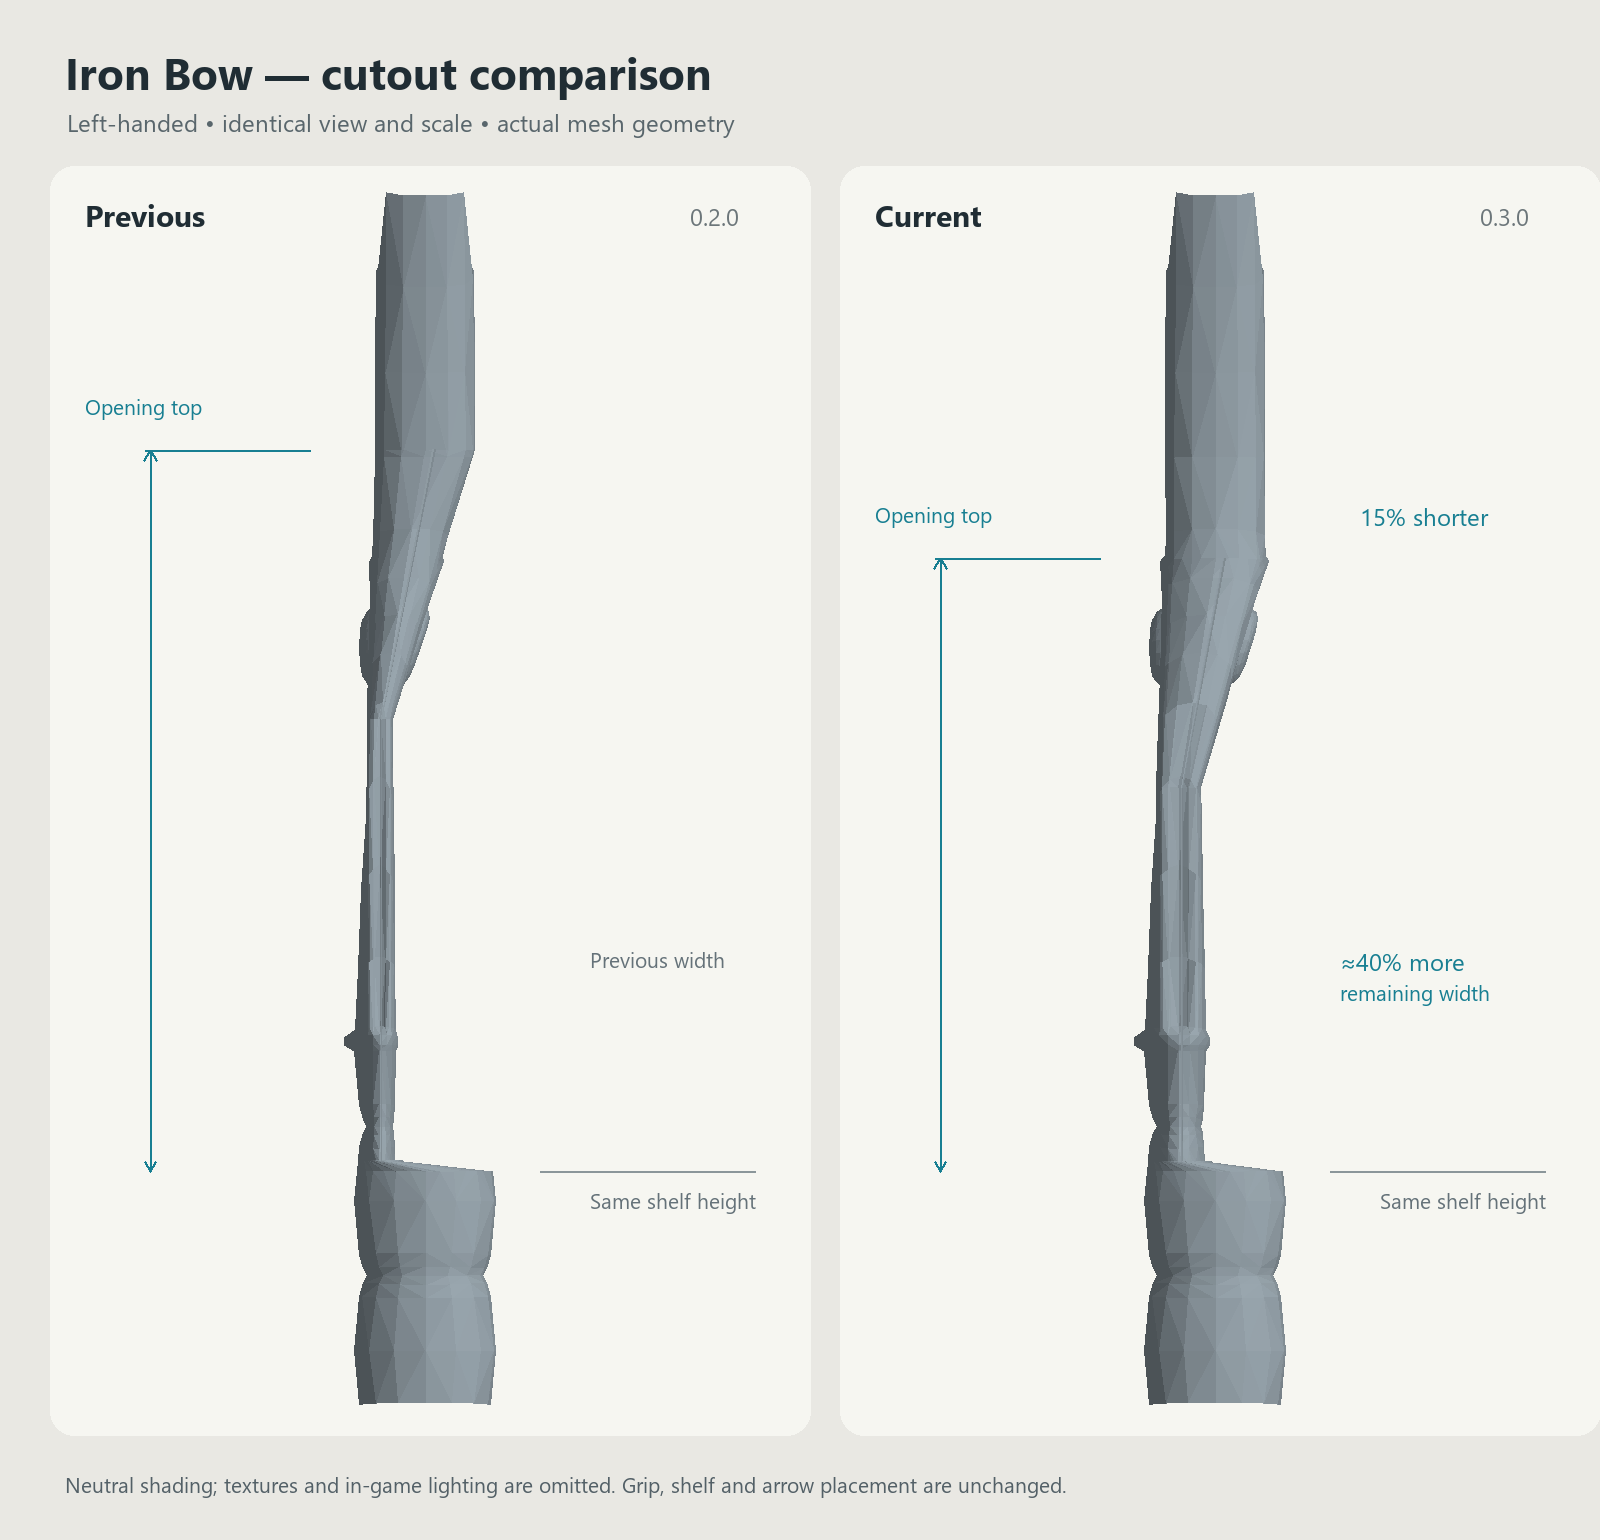
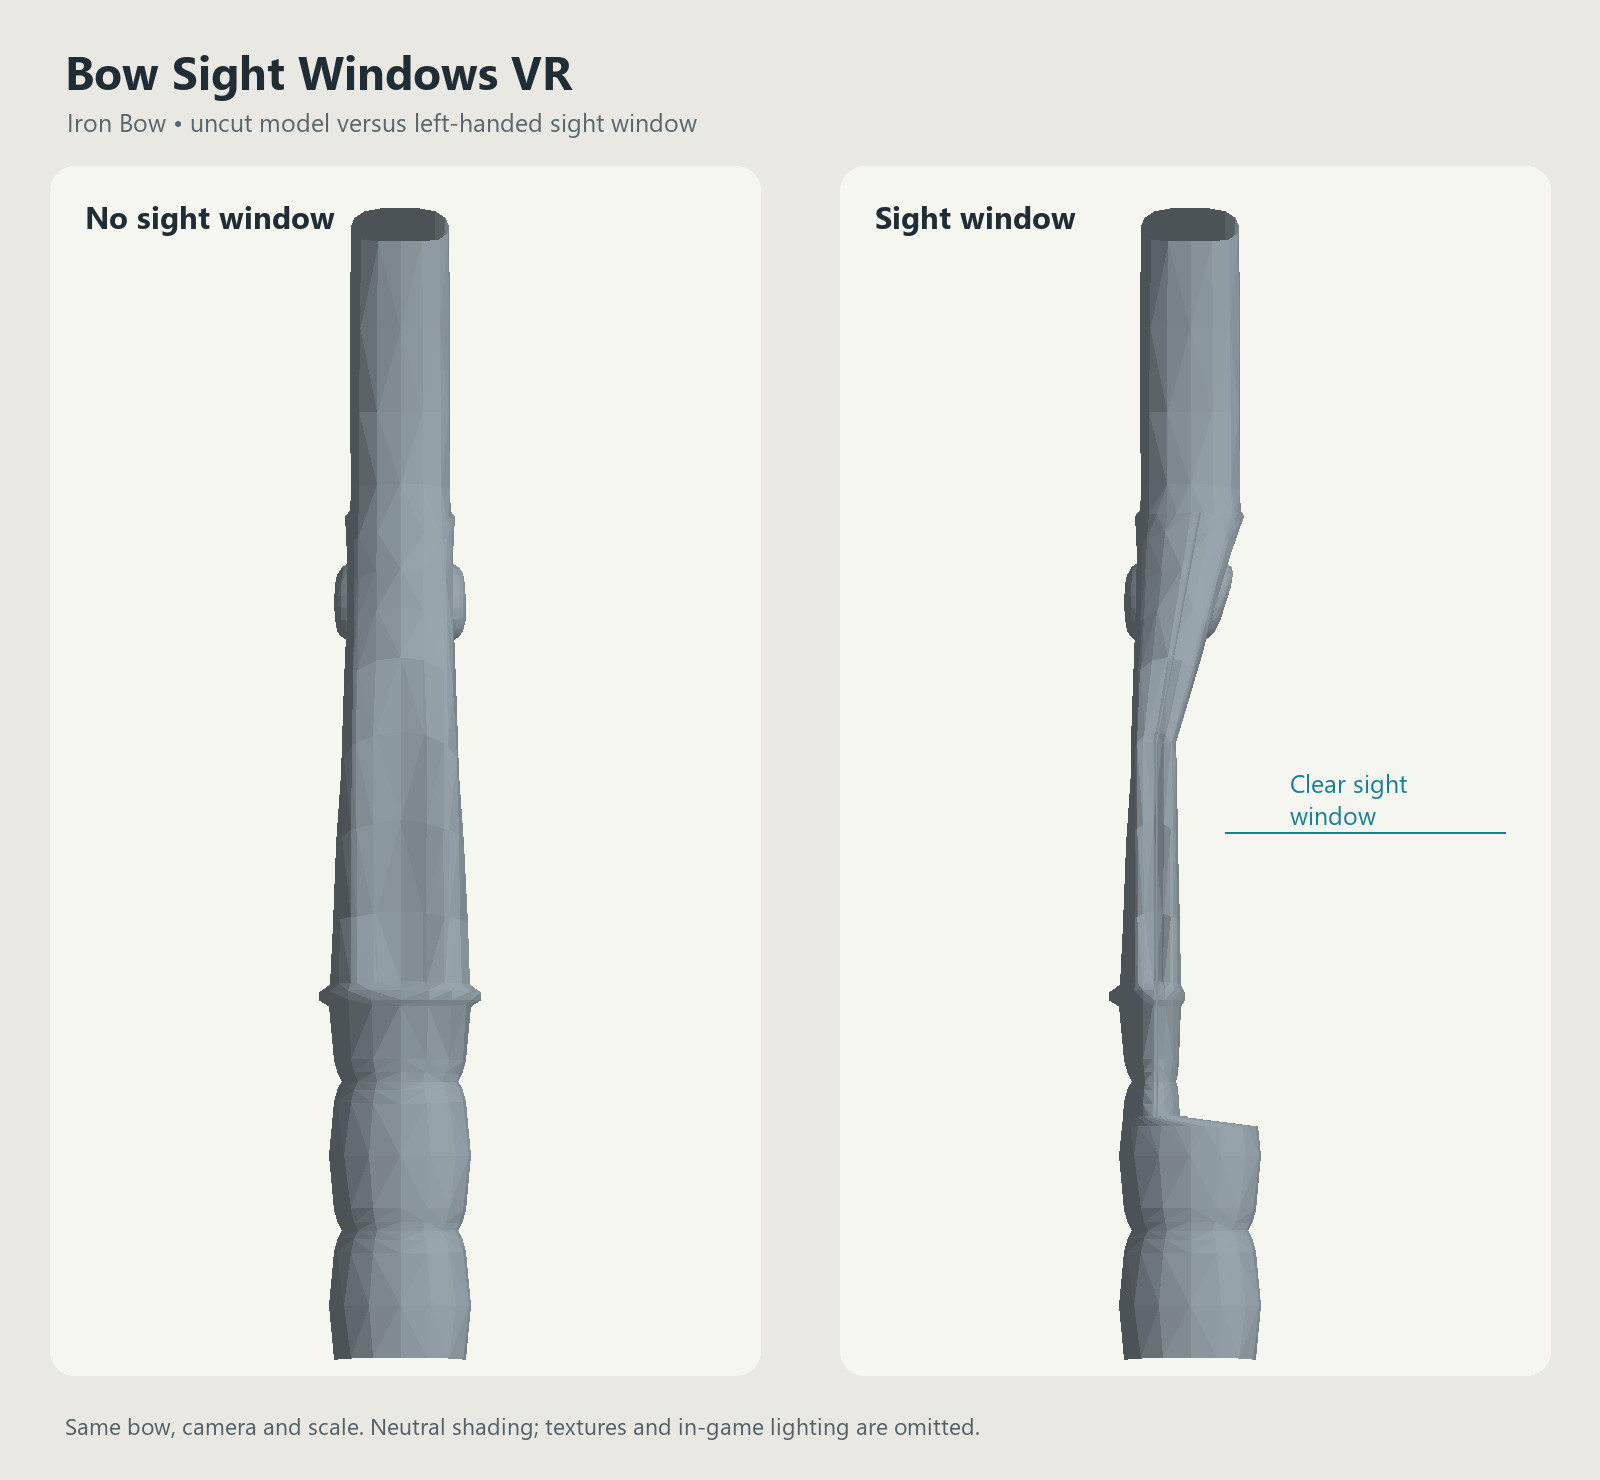
Release 1.0 with uncut versus sight-window showcase

diff --git a/tools/build.py b/tools/build.py
@@ -5,16 +5,14 @@ from nif_mesh import Mesh
 from window import apply_window,SHELF,TOP
 
 ROOT=Path(__file__).resolve().parents[1]
-def revised_depth(points,hand,path):
+def cut_depth(points,hand,path):
  sign=1 if hand=='left' else -1
  side=[sign*q[2] for q in points if q[0]>=-6 and 4.22<=q[1]<=14]
  maximum=max(side,default=1.5);minimum=min(side,default=-1.5)
- previous=.76 if path=='weapons/wooden/woodenbow.nif' else max(.76,min(.94,1-.7/(maximum+1.3)))
+ base_depth=.76 if path=='weapons/wooden/woodenbow.nif' else max(.76,min(.94,1-.7/(maximum+1.3)))
  coefficient=max(maximum+1.3,0)-max(minimum+1.3,0)
- old_width=maximum-minimum-previous*coefficient
- depth=max(0,previous-.4*old_width/coefficient) if coefficient>1e-9 else previous
- width=maximum-minimum-depth*coefficient
- if old_width>1e-9:assert abs(width/old_width-1.4)<1e-9
+ base_width=maximum-minimum-base_depth*coefficient
+ depth=max(0,base_depth-.4*base_width/coefficient) if coefficient>1e-9 else base_depth
  return depth
 
 def build(source_dir,output_dir):
@@ -33,23 +31,23 @@ def build(source_dir,output_dir):
   for hand in ('left','right'):
    mesh=Mesh(data);parts=[]
    for d in mesh.parts:
-    depth=revised_depth(d['part'].root_positions,hand,row['path'])
+    depth=cut_depth(d['part'].root_positions,hand,row['path'])
     effect='boundweapons' in row['path'] and mesh.objects[d['shape']].get('name') in ('FlamesMesh01:0','Refraction:0')
     parts.append(apply_window(d,hand,depth,influence_limit=.1 if effect else .01))
    result,changed=mesh.encode();digest=hashlib.sha256(result).hexdigest()
-   if digest!=row['referenceOutputs'][hand]:raise ValueError(f'Generated mesh differs from verified 0.3.0 reference: {hand}/{row["path"]}')
+   if digest!=row['referenceOutputs'][hand]:raise ValueError(f'Generated mesh differs from verified 1.0 reference: {hand}/{row["path"]}')
    target=package/hand/'meshes'/row['path'];target.parent.mkdir(parents=True,exist_ok=True);target.write_bytes(result)
    reports.append(dict(path=row['path'],hand=hand,sha256=digest,changedBlocks=changed,parts=parts))
  for name in ('ModuleConfig.xml','info.xml'):
   target=package/'fomod'/name;target.parent.mkdir(exist_ok=True);shutil.copyfile(ROOT/'fomod'/name,target)
  shutil.copyfile(ROOT/'docs/local-mod-installation.txt',package/'README.txt')
- archive=output_dir/'BowSightWindows-VanillaDLC-MGO-0.3.0-FOMOD.zip'
+ archive=output_dir/'BowSightWindows-VanillaDLC-MGO-1.0.0-FOMOD.zip'
  with zipfile.ZipFile(archive,'w',zipfile.ZIP_DEFLATED) as z:
   for p in sorted(package.rglob('*')):
    if p.is_file():
     info=zipfile.ZipInfo(p.relative_to(package).as_posix(),(2026,10,26,0,0,0));info.compress_type=zipfile.ZIP_DEFLATED;z.writestr(info,p.read_bytes())
  with zipfile.ZipFile(archive) as z:assert z.testzip() is None and len(z.namelist())==71
- report=dict(version='0.3.0',meshes=len(reports),shelfY=SHELF,topY=TOP,windowHeightScale=.85,remainingReferenceWidthScale=1.4,archiveSHA256=hashlib.sha256(archive.read_bytes()).hexdigest(),outputs=reports)
+ report=dict(version='1.0.0',meshes=len(reports),shelfY=SHELF,topY=TOP,archiveSHA256=hashlib.sha256(archive.read_bytes()).hexdigest(),outputs=reports)
  (output_dir/'verification.json').write_text(json.dumps(report,indent=2)+'\n')
  return archive
 

diff --git a/tests/test_tools.py b/tests/test_tools.py
@@ -2,7 +2,7 @@ from pathlib import Path
 import sys,json,struct,tempfile,unittest,contextlib,xml.etree.ElementTree as ET
 ROOT=Path(__file__).resolve().parents[1];sys.path.insert(0,str(ROOT/'tools'))
 from window import SHELF,TOP,TAPER,BEVEL,apply_window
-from build import revised_depth,build
+from build import cut_depth,build
 from nif_mesh import identity,assemble
 from nif_io import blocks,read_sse
 
@@ -14,18 +14,17 @@ def fixture_dir():
   yield folder
 
 class SourceChecks(unittest.TestCase):
- def test_opening_is_shorter_around_same_shelf(self):
+ def test_release_window_profile(self):
   self.assertAlmostEqual(SHELF,3.9707460691833494)
-  self.assertAlmostEqual((TOP-SHELF)/(20-SHELF),.85)
-  self.assertAlmostEqual((TAPER-SHELF)/(14-SHELF),.85)
-  self.assertAlmostEqual(BEVEL/.25,.85)
- def test_remaining_reference_width_increases_by_forty_percent(self):
+  self.assertAlmostEqual(TOP,17.595611910377503)
+  self.assertAlmostEqual(TAPER,12.495611910377502)
+  self.assertAlmostEqual(BEVEL,.2125)
+ def test_release_cut_depth(self):
   points=[[0,8,-2],[0,8,2]]
-  olddepth=1-.7/3.3;oldwidth=4-olddepth*3.3
   for hand in ('left','right'):
-   depth=revised_depth(points,hand,'weapons/example/bow.nif')
-   self.assertAlmostEqual((4-depth*3.3)/oldwidth,1.4)
-   self.assertGreater(depth,0);self.assertLess(depth,olddepth)
+   depth=cut_depth(points,hand,'weapons/example/bow.nif')
+   self.assertAlmostEqual(depth,.6181818181818182)
+   self.assertGreater(depth,0);self.assertLess(depth,1)
  def test_fomod_has_one_choice_and_both_routes(self):
   root=ET.parse(ROOT/'fomod/ModuleConfig.xml').getroot();group=root.find('.//group');self.assertEqual(group.attrib['type'],'SelectExactlyOne')
   choices=group.findall('./plugins/plugin');self.assertEqual(len(choices),2)

diff --git a/tools/window.py b/tools/window.py
@@ -2,10 +2,9 @@
 import math,struct
 from nif_mesh import norm,mv,trans,invtrans
 SHELF=3.9707460691833494
-HEIGHT_SCALE=.85
-TOP=SHELF+(20-SHELF)*HEIGHT_SCALE
-TAPER=SHELF+(14-SHELF)*HEIGHT_SCALE
-BEVEL=.25*HEIGHT_SCALE
+TOP=17.595611910377503
+TAPER=12.495611910377502
+BEVEL=.2125
 def apply_window(d,hand,depth=.76,influence_limit=.01):
  p=d['part'];mapping=d['mapping'];sign=1 if hand=='left' else -1;verts=p.vertices;roots=p.root_positions;cache={};changed=[];discarded=[]
  # String triangles are separate islands. Protect their complete islands rather
@@ -65,4 +64,4 @@ def apply_window(d,hand,depth=.76,influence_limit=.01):
   n=[n[0],n[1]-jy*n[2]/jz,n[2]/jz];t=[t[0],t[1],jy*t[1]+jz*t[2]];bit=[bit[0],bit[1],jy*bit[1]+jz*bit[2]]
   p.write_vertex(i,invtrans(mapping,new),mv(RT,n),mv(RT,t),mv(RT,bit))
  p.changed=bool(changed);p.preview_before=roots;p.preview_after=after
- return dict(originalVertices=p.original_count,vertices=len(verts),originalTriangles=len(p.original_triangles),triangles=len(p.triangles),changedVertices=len(changed),depth=depth,shelfY=SHELF,topY=TOP,taperY=TAPER,heightScale=HEIGHT_SCALE,protectedStringVertices=len(protected),newEdgesWithReducedBoneInfluences=len(discarded),maximumDiscardedInfluence=max(discarded,default=0))
+ return dict(originalVertices=p.original_count,vertices=len(verts),originalTriangles=len(p.original_triangles),triangles=len(p.triangles),changedVertices=len(changed),depth=depth,shelfY=SHELF,topY=TOP,taperY=TAPER,protectedStringVertices=len(protected),newEdgesWithReducedBoneInfluences=len(discarded),maximumDiscardedInfluence=max(discarded,default=0))

diff --git a/tools/package_toolkit.py b/tools/package_toolkit.py
@@ -5,7 +5,7 @@ from audit_public import audit
 ROOT=Path(__file__).resolve().parents[1]
 if __name__=='__main__':
  audit();files=[n for n in subprocess.check_output(['git','ls-files','-z'],cwd=ROOT).decode().split('\0') if n]
- out=ROOT/'dist';out.mkdir(exist_ok=True);archive=out/'BowSightWindowsVR-0.3.0-SourceToolkit.zip'
+ out=ROOT/'dist';out.mkdir(exist_ok=True);archive=out/'BowSightWindowsVR-1.0.0-SourceToolkit.zip'
  with zipfile.ZipFile(archive,'w',zipfile.ZIP_DEFLATED) as z:
   for name in sorted(files):
    info=zipfile.ZipInfo('BowSightWindowsVR/'+name,(2026,10,26,0,0,0));info.compress_type=zipfile.ZIP_DEFLATED;z.writestr(info,(ROOT/name).read_bytes())

diff --git a/README.md b/README.md
@@ -2,9 +2,9 @@
 
 Sight windows for Skyrim VR bows, with an arrow shelf and a narrower section above the grip for a clearer view along the arrow. A FOMOD installer selects left- or right-handed meshes for the whole set.
 
-![Previous and current Iron Bow cutouts](docs/images/iron-bow-comparison.png)
+![Bow without a sight window and bow with a sight window](docs/images/iron-bow-comparison.png)
 
-**Current version: 0.3.0. Public download: source and tools only.** The locally installed mesh mod is complete; the bundled mesh archive remains local while upstream redistribution permissions are reviewed. No game files or modified third-party NIFs are stored in this repository or attached to its releases.
+**Release 1.0. Public download: source and tools only.** The locally installed mesh mod is complete; the bundled mesh archive remains local while upstream redistribution permissions are reviewed. No game files or modified third-party NIFs are stored in this repository or attached to its releases.
 
 ## What the mod changes
 
@@ -12,7 +12,6 @@ Sight windows for Skyrim VR bows, with an arrow shelf and a narrower section abo
 - Left-handed: bow in the **right** hand, string drawn with the **left**.
 - Right-handed: bow in the **left** hand, string drawn with the **right**.
 - Vanilla Skyrim, Dawnguard and Dragonborn bow families, Bound Bow, Drainspell Bow and unique-model variants used by the reference setup: **34 mesh paths per hand**.
-- Version 0.3.0 restores material for approximately **40% more remaining width**, and lowers the top of the opening for **15% less height**. The shelf height stays fixed.
 
 The mod installs meshes only. It keeps the source skeletons, grip and arrow placement, collision, animation references, materials and original vertex weights. It does not change aiming, draw speed, damage, ballistics, or Bow Inertia VR code/settings. A global mesh choice also affects NPC/world appearances that share those models.
 
@@ -34,13 +33,13 @@ Use Python 3.10 or later. The core builder uses only the standard library.
 python tools/build.py --source-dir "D:/Modding/BowSources" --output-dir "D:/Modding/BowSightWindowsBuild"
 ```
 
-The builder generates 68 meshes, checks every result against the verified 0.3.0 output hashes, and creates a local `BowSightWindows-VanillaDLC-MGO-0.3.0-FOMOD.zip`. It does not modify MO2, a game installation, or the source folder. Source and output folders must be separate and non-nested.
+The builder generates 68 meshes, checks every result against the verified 1.0 output hashes, and creates a local `BowSightWindows-VanillaDLC-MGO-1.0.0-FOMOD.zip`. It does not modify MO2, a game installation, or the source folder. Source and output folders must be separate and non-nested.
 
-Install that locally generated ZIP through MO2, choose one handedness, and let it win conflicts with the source bow meshes/PGPatcher output. Disable the older Long Bow-only sight-window mod. Reinstall and replace to switch hands; disable the mod to restore the underlying meshes.
+Install that locally generated ZIP through MO2, choose one handedness, and let it win conflicts with the source bow meshes/PGPatcher output. Reinstall and replace to switch hands; disable the mod to restore the underlying meshes.
 
 ## Verification
 
-All 68 reference outputs passed offline checks for valid geometry and bounds, preserved original UVs/weights, unchanged skeleton/material/collision blocks and exclusive FOMOD routing. The original left-handed Long Bow and 0.2.0 appearance received user approval in-game. Revised 0.3.0 proportions were reviewed in a geometry render; right-handed placement and all live effect combinations have not been exhaustively headset-tested.
+All 68 reference outputs passed offline checks for valid geometry and bounds, preserved original UVs/weights, unchanged skeleton/material/collision blocks and exclusive FOMOD routing. In-game feedback informed the left-handed design; right-handed placement and all live effect combinations have not been exhaustively headset-tested.
 
 Bound Bow's flame/refraction surfaces follow the opening. Newly added effect vertices use the engine's four-influence limit; the largest discarded interpolation influence is approximately 6.42%, confined to new effect-sheet vertices. Original weights remain untouched.
 

diff --git a/docs/nexus/README.md b/docs/nexus/README.md
@@ -3,7 +3,7 @@
 ## Prepared fields
 
 - **Title:** Bow Sight Windows VR - Left and Right Handed
-- **Version:** 0.3.0
+- **Version:** 1.0.0
 - **Game:** Skyrim Special Edition, with VR targeting stated prominently
 - **Summary:** Physical bow sight windows with an arrow shelf and a narrower section above the grip. Choose left- or right-handed meshes through a FOMOD installer. No aiming, damage, ballistics or runtime plugin changes.
 - **Description:** [description.bbcode](description.bbcode)
@@ -16,9 +16,9 @@
 
 - [ ] Identify and clear redistribution terms for all third-party assets in the selected upload.
 - [ ] Add required original-author credits and permission evidence; select Nexus permission settings that actually match those grants.
-- [ ] Decide whether the public package targets the current MGO sources or a separately prepared stock-vanilla source set. Version 0.3.0 targets MGO sources.
+- [ ] Declare the supported source setup clearly. Release 1.0 targets the reference MGO sources.
 - [ ] Rebuild locally from the supported sources, run verification and test the ZIP through MO2's FOMOD UI.
-- [ ] Confirm the right-handed view, unique bows, Bound Bow flame/refraction effects and the revised 0.3.0 proportions in-game. Do not describe these as exhaustively tested yet.
+- [ ] Confirm the right-handed view, unique bows and Bound Bow flame/refraction effects in-game. Do not describe these as exhaustively tested yet.
 - [ ] Add in-game images showing several bow families; label the existing image as a neutral-shaded geometry render.
 - [ ] Declare actual texture/material/unique-model dependencies and conflicts; note that another mesh replacer or regenerated PGPatcher output can overwrite the cutouts.
 - [ ] Upload the verified FOMOD as the main file only after the permission and compatibility work above is complete.

diff --git a/CHANGELOG.md b/CHANGELOG.md
@@ -1,20 +1,9 @@
 # Changelog
 
-## 0.3.0 — 2026-10-26
+## 1.0 — 2026-10-26
 
-- Regenerated both handed sets, including Long Bow, with approximately 40% wider remaining sections and 15% shorter openings.
-- Retained the existing arrow-shelf height.
-- Kept 34 mesh paths per hand and mutually exclusive FOMOD choices.
-- Preserved source models, original weight tables/UVs and skeleton/material/collision blocks.
-- Published portable source/tools and Nexus preparation documents; mesh archives remain local pending upstream permissions.
-
-## 0.2.0 — 2026-10-26
-
-- Extended the approved Long Bow design to vanilla/DLC bow families, Bound Bow and unique variants in the reference setup.
-- Added left/right FOMOD choices, first-person/display paths and redirected unique-model paths.
-- Opened the notch-side portions of ornate bows and Bound Bow effect surfaces while preserving the far side.
-
-## 0.1.0 — 2026-10-26
-
-- Initial left-handed Long Bow sight window, aligned from saved Bow Inertia VR arrow/bow transforms.
-- Received headset approval for the original prototype.
+- Initial release of bow sight windows for Skyrim VR.
+- Left- and right-handed choices through a FOMOD installer.
+- Vanilla/DLC bow families, Bound Bow and unique-model variants in the reference setup, covering 34 mesh paths per hand.
+- Mesh-only changes with existing grip, arrow placement, skeletons, materials, collision and original weight tables retained.
+- Source toolkit, neutral-shaded comparison image, credits and Nexus preparation materials. Bundled meshes remain local pending upstream redistribution permissions.

diff --git a/docs/RELEASE-v1.0.0.md b/docs/RELEASE-v1.0.0.md
@@ -1,0 +1,14 @@
+# Bow Sight Windows VR 1.0
+
+Give Skyrim VR bows a clear sight window above the arrow shelf. Choose left- or right-handed meshes through a FOMOD installer.
+
+- Vanilla Skyrim, Dawnguard and Dragonborn bow families, Bound Bow and unique-model variants in the reference setup.
+- 34 mesh paths per hand, including relevant first-person and display variants.
+- Mesh-only changes: existing grip and arrow placement, source skeletons, collision, animation references and materials stay intact. No aiming, damage or ballistics changes.
+- New comparison image: uncut bow versus sight window, using the same bow, view and scale.
+
+**Public download: source and tools only.** The SourceToolkit ZIP contains the portable builder, bounded NIF editor, FOMOD configuration, tests, documentation and Nexus preparation materials. It contains no NIF, BSA, DDS, game files or telemetry and is not an install-ready mesh mod.
+
+The builder requires Python 3.10+ and the user's own exact reference source meshes, then produces a verified local FOMOD. The bundled mesh archive remains local pending upstream redistribution permissions, as requested by the author.
+
+See the README for build instructions and compatibility. Nexus BBCode, credits and an upload checklist are included.
